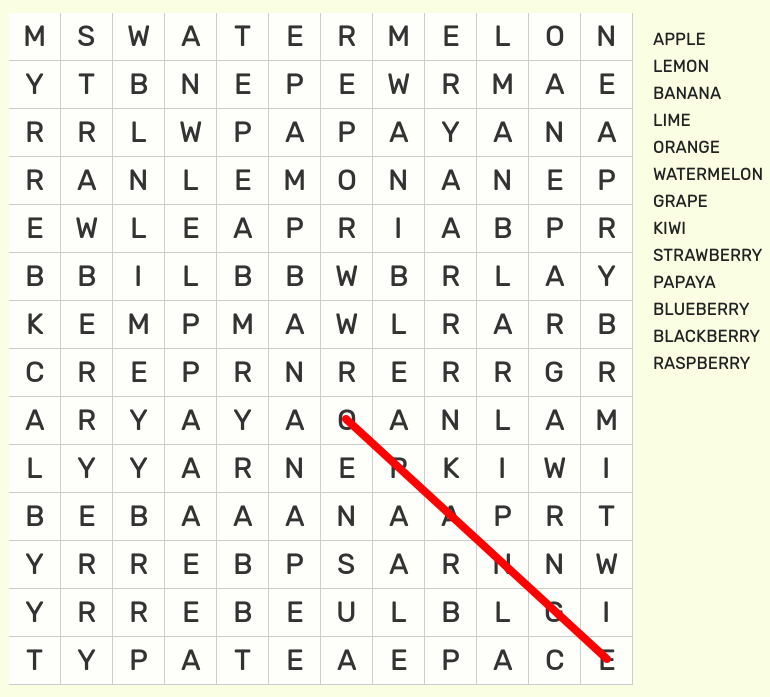
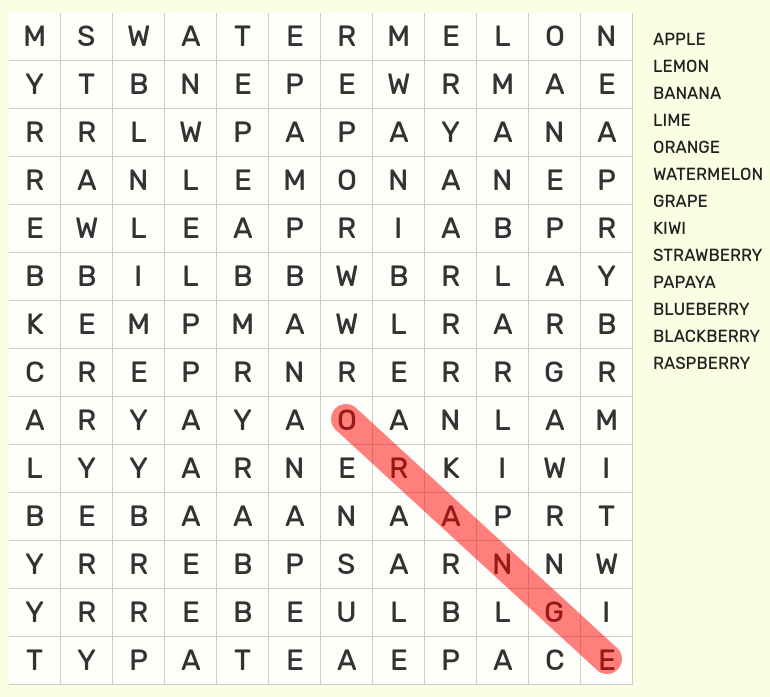
trying to test the main function

Changed region(s): [[0.4364, 0.5725, 0.8104, 0.9641]]

diff --git a/src/Reconstruct/Reconstruct.c b/src/Reconstruct/Reconstruct.c
@@ -11,6 +11,13 @@ typedef struct {
     int x, y;
 } Position;
 
+typedef struct {
+    int ini_row;
+    int ini_col;
+    int end_row;
+    int end_col;
+} Solution;
+
 /* draw_line_from_data():
     Draw a line from specific data properties.
 */
@@ -19,7 +26,6 @@ void draw_line_from_data(GdkPixbuf* pixbuf,
         Position end_tl, Position end_br, //Positions
         float thickness_ratio,
         double r, double g, double b, double a) {
-    //Calculating data
     //Calculating data
     Position start_c = (Position) {
         .x = (start_tl.x + start_br.x) /2,
@@ -42,7 +48,6 @@ void draw_line_from_data(GdkPixbuf* pixbuf,
     cairo_surface_t *surface = cairo_image_surface_create_for_data(
         pixels, CAIRO_FORMAT_RGB24, width, height, rowstride);
     cairo_t *cr = cairo_create(surface);
-
     //Draw line
     cairo_set_source_rgba(cr, b, g, r, a);
     cairo_set_line_width(cr, thickness);
@@ -57,17 +62,44 @@ void draw_line_from_data(GdkPixbuf* pixbuf,
     cairo_surface_destroy(surface);
 }
 
+void get_position_from_cluster(Cluster input, Position *p1, Position *p2) {
+    *p1 = (Position) {.x=input.minX,.y=input.minY};
+    *p2 = (Position) {.x=input.maxX,.y=input.maxY};
+}
 
-/*GdkPixbuf* reconstruct_from_data(GdkPixbuf* pixbuf,) {
+GdkPixbuf* reconstruct_from_data(GdkPixbuf* pixbuf, //Image to modify
+        Cluster** grid, int size_x, int size_y,//Grid of letters (clusters)
+        Cluster*** word_list, //List of words of letters (&clusters) with '\0'
+        Solution** solutions, int len) { //To reconstruct graphically
     GdkPixbuf* res = gdk_pixbuf_copy(pixbuf);
 
-    //Highlight every word found
-    while (cluster != NULL) {
-        //draw_highlight(res, cluster);
-        cluster = cluster->next;
+    Position s1,s2,e1,e2;
+    for (int i = 0; i < len; i++) {
+        if (solutions[i]!=NULL) { //Word has been found
+            //HIGHLIGHTING THE WORD IN GRID
+            int sx = solutions[i]->ini_row;
+            int sy = solutions[i]->ini_col;
+            int ex = solutions[i]->end_row;
+            int ey = solutions[i]->end_col;
+            get_position_from_cluster(grid[sx][sy], &s1, &s2);
+            get_position_from_cluster(grid[ex][ey], &e1, &e2);
+            //Draw
+            draw_line_from_data(pixbuf,s1,s2,e1,e2, 1.5f, //Thickness
+                    1, 0, 0, 0.5f); //RGBA values
+
+            //Crossing out the word in word list
+            get_position_from_cluster(*word_list[i][0], &s1, &s2);
+            int j = 0;
+            while (word_list[i][j+1] != NULL)
+                j++;
+            get_position_from_cluster(*word_list[i][j], &e1, &e2);
+            //Draw
+            draw_line_from_data(pixbuf,s1,s2,e1,e2, 0.5f, //Thickness
+                    1, 0, 0, 0.5f); //RGBA values
+        }
     }
     return res;
-}*/
+}
 
 
 int main(int argc, char* argv[]) {
@@ -77,19 +109,23 @@ int main(int argc, char* argv[]) {
     //Load pixbuf
     GdkPixbuf* pixbuf = gdk_pixbuf_new_from_file("input.png", NULL);
 
-    //Cluster tables for test
+    //Creating test data
+    int XSIZE = 12;
+    int YSIZE = 14;
+    int gminX[YSIZE] = {};
+    int gminY[YSIZE] = {};
+    int gmaxX[YSIZE] = {};
+    int gmaxY[YSIZE] = {};
+
+    int WSIZE = 13;
+    int wminX[WSIZE] = {};
+    int wminY[WSIZE] = {};
+    int wmaxX[WSIZE] = {};
+    int wmaxY[WSIZE] = {};
 
     //Call reconstruct
-    //GdkPixbuf* final = reconstruct_from_data(pixbuf, start);
-    Position s1,s2,e1,e2;
-    s1 = (Position) {.x=338,.y=409};
-    s2 = (Position) {.x=355,.y=429};
-    e1 = (Position) {.x=600,.y=649};
-    e2 = (Position) {.x=614,.y=669};
-
-    //Call
-    draw_line_from_data(pixbuf, s1, s2, e1, e2, 0.4f, 1, 0, 0, 1);
+    GdkPixbuf* final = reconstruct_from_data(pixbuf, start);
 
     //Save
-    gdk_pixbuf_save(pixbuf, "save.png", "png", NULL, NULL);
+    gdk_pixbuf_save(final, "save.png", "png", NULL, NULL);
 }